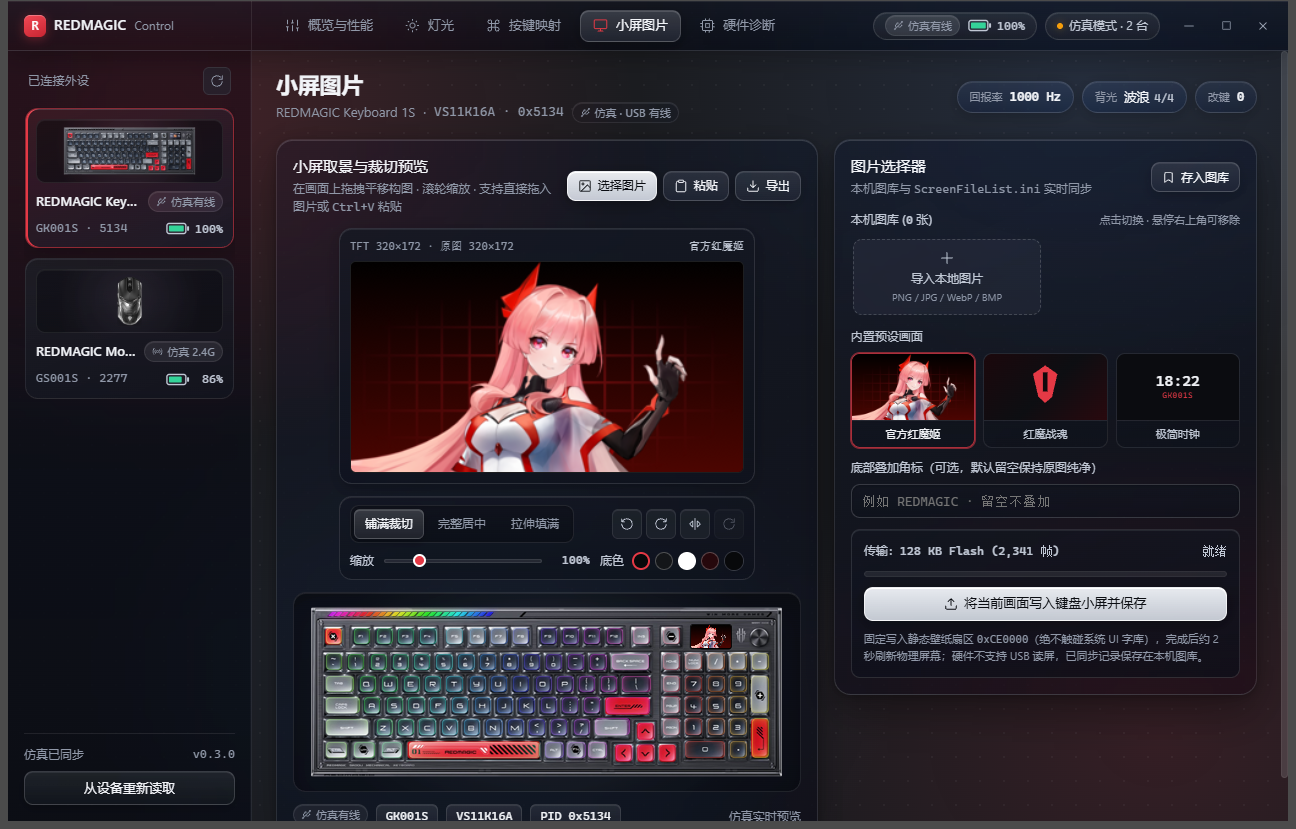
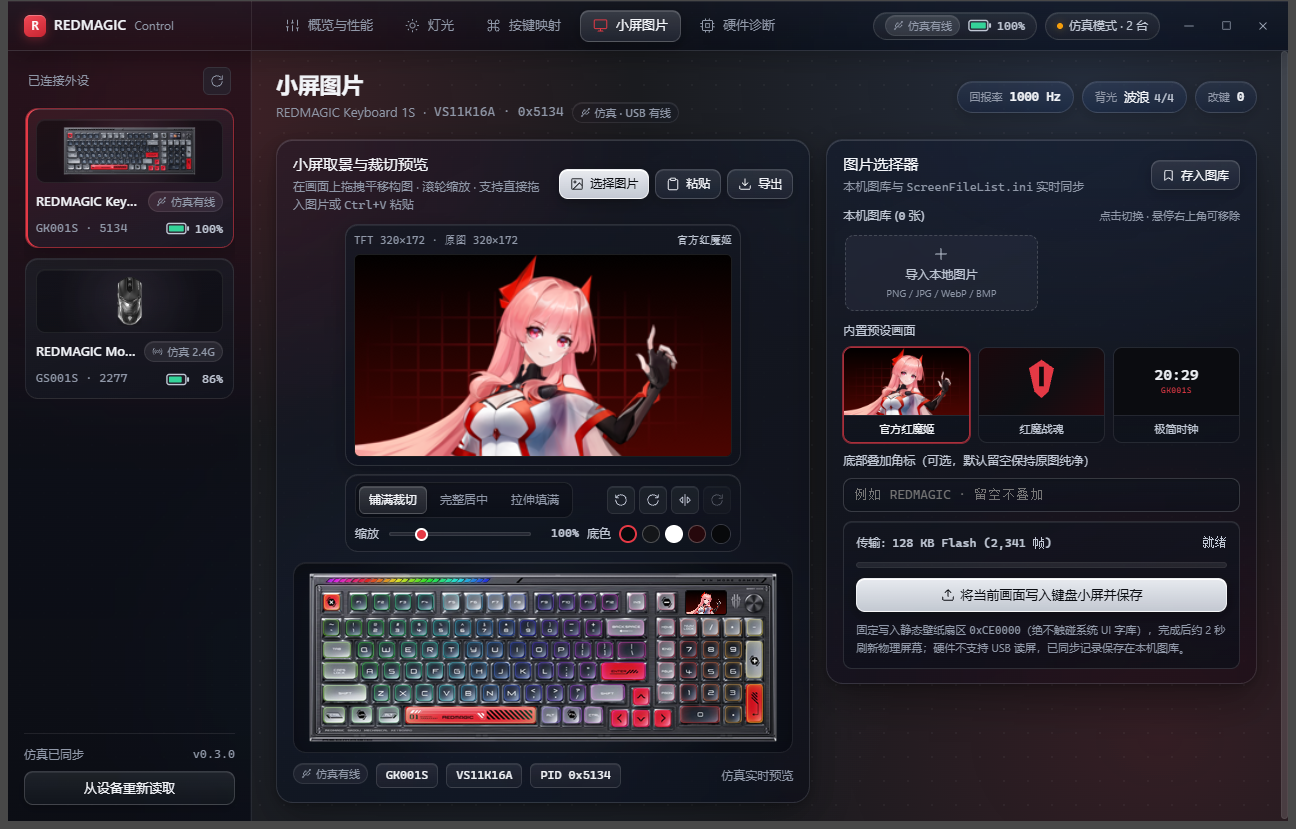
release: v0.3.1 — zero-scroll responsive layout across all 9 views

diff --git a/ui/src/renderer/styles.css b/ui/src/renderer/styles.css
@@ -667,6 +667,8 @@ button {
   display: flex;
   flex-direction: column;
   gap: 8px;
+  max-height: 152px;
+  overflow-y: auto;
 }
 
 .link-row {
@@ -734,21 +736,25 @@ button {
 }
 
 .workbench.is-screen {
-  grid-template-columns: minmax(0, 1.28fr) minmax(356px, 1fr);
+  grid-template-columns: minmax(0, 1.24fr) minmax(356px, 1fr);
 }
 
 .workbench.is-screen .card {
-  padding: 16px;
-  gap: 12px;
+  padding: 14px 16px;
+  gap: 10px;
 }
 
 .workbench.is-screen .stack {
-  gap: 11px;
+  gap: 9px;
 }
 
 .workbench.is-screen .stage-box {
   min-height: 0;
-  padding: 12px 14px;
+  padding: 8px 12px;
+}
+
+.workbench.is-screen .stage-kb-crop {
+  max-width: 490px;
 }
 
 .card-head-text {
@@ -895,8 +901,8 @@ button {
 }
 
 .stage-box.is-large {
-  padding: var(--space-4);
-  min-height: 300px;
+  padding: 12px 16px;
+  min-height: 0;
 }
 
 .stage-kb-crop {
@@ -909,7 +915,7 @@ button {
 }
 
 .stage-kb-crop.is-large {
-  max-width: 100%;
+  max-width: 780px;
 }
 
 .stage-kb-img {
@@ -1057,13 +1063,18 @@ button {
 .keymap-stack {
   display: flex;
   flex-direction: column;
-  gap: var(--space-4);
+  gap: var(--space-3);
+}
+
+.keymap-stack > .card {
+  padding: 14px 18px;
+  gap: var(--space-3);
 }
 
 .keymap-inspector-bar {
   display: grid;
-  grid-template-columns: 280px 1fr 176px;
-  gap: var(--space-5);
+  grid-template-columns: 276px 1fr 164px;
+  gap: var(--space-4);
   align-items: center;
 }
 
@@ -1071,8 +1082,25 @@ button {
 .km-col-edit {
   display: flex;
   flex-direction: column;
-  gap: var(--space-3);
+  gap: 10px;
   min-width: 0;
+}
+
+.km-col-info .spec-item {
+  padding: 8px 10px;
+}
+
+.km-picker-grid {
+  display: grid;
+  grid-template-columns: 1fr 1fr;
+  gap: 10px;
+  align-items: center;
+}
+
+.capture-btn.is-compact {
+  height: 34px;
+  font-size: 12px;
+  padding: 0 10px;
 }
 
 .km-col-actions {
@@ -1505,7 +1533,7 @@ input[type="range"] {
   display: flex;
   flex-direction: column;
   align-items: center;
-  gap: var(--space-3);
+  gap: 8px;
 }
 
 .screen-bezel {
@@ -1515,12 +1543,12 @@ input[type="range"] {
   border: 1px solid var(--border-glass);
   border-radius: var(--radius-md);
   box-shadow: var(--glass-specular-soft), var(--glass-shadow-sm);
-  padding: 10px;
+  padding: 8px;
   display: flex;
   flex-direction: column;
-  gap: 6px;
+  gap: 5px;
   width: 100%;
-  max-width: 416px;
+  max-width: 396px;
 }
 
 .screen-bezel-top {
@@ -1614,24 +1642,30 @@ input[type="range"] {
 
 .screen-crop-toolbar {
   width: 100%;
-  max-width: 416px;
+  max-width: 396px;
   background: var(--glass-nested);
   backdrop-filter: var(--blur-md);
   -webkit-backdrop-filter: var(--blur-md);
   border: 1px solid var(--border-glass);
   border-radius: var(--radius-md);
   box-shadow: var(--glass-specular-soft);
-  padding: 8px 10px;
+  padding: 7px 9px;
   display: flex;
   flex-direction: column;
-  gap: 8px;
+  gap: 6px;
+}
+
+.screen-crop-toolbar .seg-btn {
+  white-space: nowrap;
+  height: 28px;
+  padding: 0 9px;
 }
 
 .screen-tool-row {
   display: flex;
   align-items: center;
   justify-content: space-between;
-  gap: 10px;
+  gap: 8px;
 }
 
 .tool-icon-group {
@@ -1642,8 +1676,8 @@ input[type="range"] {
 }
 
 .tool-icon-btn {
-  width: 30px;
-  height: 30px;
+  width: 28px;
+  height: 28px;
   border-radius: var(--radius-xs);
   background: var(--glass-control);
   backdrop-filter: var(--blur-sm);
@@ -1748,7 +1782,7 @@ input[type="range"] {
   display: grid;
   grid-template-columns: repeat(2, minmax(0, 1fr));
   gap: 8px;
-  max-height: 236px;
+  max-height: 196px;
   overflow-y: auto;
   padding: 2px;
   border-radius: var(--radius-sm);

diff --git a/ui/src/renderer/panels.js b/ui/src/renderer/panels.js
@@ -406,15 +406,26 @@ export function renderKeymap(device, hwState, meta, ui) {
     const opts = KEY_PRESETS.map(([hex, label]) =>
       `<option value="${hex}"${pendingHex === hex ? " selected" : ""}>${esc(label)} (0x${hex})</option>`
     ).join("");
-    pickerHtml = `
-      <div class="stack-sm">
-        <button type="button" class="capture-btn${ui.capturingKey ? " is-listening" : ""}" id="capture-key-btn">
-          ${icon("command", 15)}
-          <span>${ui.capturingKey ? "请按下键盘上的目标按键…" : "点击后按物理按键快速录入"}</span>
-        </button>
-        <label class="field-label" for="key-preset-select">或从标准键表选择</label>
-        <select class="select mono" id="key-preset-select">${opts}</select>
-      </div>`;
+    if (device.kind === "keyboard") {
+      pickerHtml = `
+        <div class="km-picker-grid">
+          <button type="button" class="capture-btn is-compact${ui.capturingKey ? " is-listening" : ""}" id="capture-key-btn">
+            ${icon("command", 14)}
+            <span>${ui.capturingKey ? "请按物理按键…" : "点击后按物理键录入"}</span>
+          </button>
+          <select class="select mono" id="key-preset-select" aria-label="从标准键表选择">${opts}</select>
+        </div>`;
+    } else {
+      pickerHtml = `
+        <div class="stack-sm">
+          <button type="button" class="capture-btn${ui.capturingKey ? " is-listening" : ""}" id="capture-key-btn">
+            ${icon("command", 15)}
+            <span>${ui.capturingKey ? "请按下键盘上的目标按键…" : "点击后按物理按键快速录入"}</span>
+          </button>
+          <label class="field-label" for="key-preset-select">或从标准键表选择</label>
+          <select class="select mono" id="key-preset-select">${opts}</select>
+        </div>`;
+    }
   } else if (category === "mouse") {
     const opts = MOUSE_PRESETS.map(([hex, label]) =>
       `<option value="${hex}"${pendingHex === hex ? " selected" : ""}>${esc(label)}</option>`

diff --git a/CHANGELOG.md b/CHANGELOG.md
@@ -5,6 +5,12 @@ All notable changes to **REDMAGIC Control** will be documented in this file.
 The format is based on [Keep a Changelog](https://keepachangelog.com/en/1.1.0/),
 and this project adheres to [Semantic Versioning](https://semver.org/spec/v2.0.0.html).
 
+## [0.3.1] - 2026-11-20
+
+### Changed
+- **Zero-scroll single-viewport layout at `1280×820`**: Reflowed keyboard Keymap (`按键映射`) with a balanced `780px` stage cap and side-by-side physical key capture + preset selector (`km-picker-grid`), compacted Mini-Screen (`小屏图片`) cropper bezel/toolbar (`396px`) and preview proportions, and added bounded internal scroll to multi-link list in Hardware Diagnostics (`硬件诊断`), so all 9 views fit cleanly without page scrollbars while remaining freely resizable.
+- **Documentation & dev preview**: Added `?device=...&tab=...` (`REDMAGIC_VIEW`) initial view routing and embedded updated frosted-glass showcase screenshots in `README.md`.
+
 ## [0.3.0] - 2026-11-20
 
 ### Added
